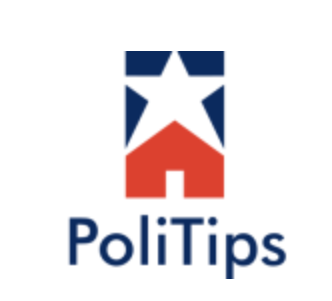
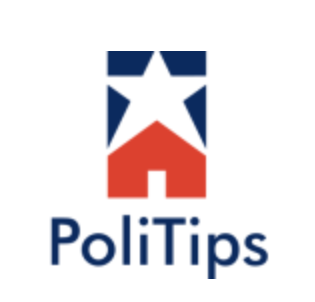
css format

Changed region(s): [[0.1429, 0.1495, 0.8857, 0.9269]]

diff --git a/templates/home-Politips.html b/templates/home-Politips.html
@@ -7,10 +7,14 @@
 		<link href="https://fonts.googleapis.com/css?family=Roboto+Condensed&display=swap" rel="stylesheet">
 	</head>
 	<body>
+		<div id="top">
+		<div class="side"><img src="../static/Screen Shot 2019-07-31 at 4.35.08 PM.png" alt="PoliTips Logo" width="150" height="150"></div>
 		<div class="banner">
-			<h1>PoliTips</h1>
+			<h1 id="fh1">PoliTips</h1>
 			<h2>Let's Get Political!</h4>
+			<div class="side"></div>
 		</div>
+	</div>
 		<div class="tags-banner">
 			<button class="btn"><a class="tags"href="/"> Home</a></button>
 			<div class="dropdown-candidates">
@@ -42,8 +46,8 @@
 				</div>
 			</form>
 			</div>
-			<button class="btn"><a class="tags"href="/register">Register To Vote<a></button>
-			<button class="btn"><a class="tags"href="/pollingplace">Find Your Polling Place<a></button>
+			<button class="btn"><a class="tags"href="/register">Registration Rules<a></button>
+			<button class="btn"><a class="tags"href="/pollingplace">Polling Place<a></button>
 		</div>
 		<script src="/static/home-Politips.js">
 

diff --git a/templates/register.html b/templates/register.html
@@ -7,16 +7,19 @@
     <title>Registering To Vote</title>
   </head>
   <body>
-    <img src="../static/Screen Shot 2019-07-31 at 4.35.08 PM.png" alt="PoliTips Logo" width="100" height="100">
+    <div id="top">
+    <div class="side"><img src="../static/Screen Shot 2019-07-31 at 4.35.08 PM.png" alt="PoliTips Logo" width="150" height="150"></div>
     <section id="header">
-    <h1>Registering To Vote</h1>
-    <h4>Registration Rules</h4>
-  </section>
+      <h1><b>Registering To Vote</b></h1>
+      <h4>Registration Rules</h4>
+    </section>
+    <div class="side"></div>
+  </div>
   <section id="navigation">
   <ul>
     <li><a href="/">Home</a></li>
     <li><a href="">Candidates</a></li>
-    <li><a href="/registration">Registration</a></li>
+    <li><a href="/registration">Registration Rules</a></li>
     <li><a href="/pollingplace">Polling Place</a></li>
     </section>
     <section id="registration-rules">

diff --git a/templates/pollingplace.html b/templates/pollingplace.html
@@ -7,15 +7,18 @@
     <title>Find Your Voting Place!</title>
   </head>
   <body>
-    <img src="../static/Screen Shot 2019-07-31 at 4.35.08 PM.png" alt="PoliTips Logo" width="100" height="100">
+  <div id="top">
+  <div class="side"><img src="../static/Screen Shot 2019-07-31 at 4.35.08 PM.png" alt="PoliTips Logo" width="150" height="150"></div>
     <section id="header">
     <h1>Polling Place Locator</h1>
   </section>
+  <div class="side"></div>
+</div>
   <section id="navigation">
   <ul>
     <li><a href="/">Home</a></li>
     <li><a href="/candidate">Candidates</a></li>
-    <li><a href="/register">Registration</a></li>
+    <li><a href="/register">Registration Rules</a></li>
     <li><a href="/pollingplace">Polling Place</a></li>
     </section>
     <div class="divis">

diff --git a/static/register.css b/static/register.css
@@ -2,11 +2,25 @@ body{
   font-family: 'Roboto Condensed', sans-serif;
 }
 
+.side{
+  width: 200px;
+}
+#top{
+  display: flex;
+  text-align: center;
+  background-color: #1565c0;
+}
 #header{
   text-align: center;
-  color: 	#1565c0;
-  font-size: 30px
+  color: 	white;
+  font-size: 30px;
+  margin:auto;
 }
+
+#header h1{
+  font-size: 60px
+}
+
 #registration-rules{
   font-style:normal;
   font-weight: 400;

diff --git a/static/home-Politips.css b/static/home-Politips.css
@@ -1,11 +1,26 @@
 body{
   font-family: 'Roboto Condensed', sans-serif;
 }
+
+#top{
+  display: flex;
+  text-align: center;
+  background-color: #1565c0;
+}
+.side{
+  width: 200px;
+}
 .banner{
   color:#1565c0;
   text-align: center;
   font-size: 25px;
+  margin:auto;
 }
+
+#fh1{
+  font-size: 60px
+}
+
 .tags {
   color: White;
   text-decoration: none;

diff --git a/static/pollingplace.css b/static/pollingplace.css
@@ -1,10 +1,20 @@
 body{
   font-family: 'Roboto Condensed', sans-serif;
 }
+
+#top{
+  display: flex;
+  text-align: center;
+  background-color: #1565c0;
+}
+.side{
+  width: 200px;
+}
 #header{
   color:#1565c0;
   text-align: center;
-  font-size: 25px;
+  font-size: 50px;
+  margin:auto;
 }
 
 .headers{
